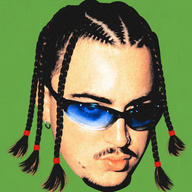
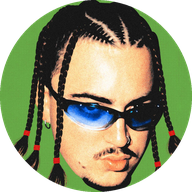
Icona de la pestanya rodona
Claude-Session: https://claude.ai/code/session_01CK917nBPVCJqKbkZFP6myE

diff --git a/index.html b/index.html
@@ -4,9 +4,9 @@
 <meta charset="utf-8">
 <meta name="viewport" content="width=device-width, initial-scale=1, viewport-fit=cover">
 <meta name="description" content="BOLTÓGRANDE presenta FLOR AL CUL, primer single. Ja disponible a totes les plataformes.">
-<link rel="icon" href="favicon.ico" sizes="48x48">
-<link rel="icon" type="image/png" sizes="32x32" href="assets/favicon-32.png">
-<link rel="icon" type="image/png" sizes="192x192" href="assets/icon-192.png">
+<link rel="icon" href="favicon.ico?v=2" sizes="48x48">
+<link rel="icon" type="image/png" sizes="32x32" href="assets/favicon-32.png?v=2">
+<link rel="icon" type="image/png" sizes="192x192" href="assets/icon-192.png?v=2">
 <link rel="apple-touch-icon" href="assets/apple-touch-icon.png">
 <meta property="og:type" content="website">
 <meta property="og:site_name" content="BOLTÓGRANDE">

diff --git a/contacte.html b/contacte.html
@@ -4,9 +4,9 @@
 <meta charset="utf-8">
 <meta name="viewport" content="width=device-width, initial-scale=1, viewport-fit=cover">
 <meta name="description" content="Contractacions i premsa de BOLTÓGRANDE.">
-<link rel="icon" href="favicon.ico" sizes="48x48">
-<link rel="icon" type="image/png" sizes="32x32" href="assets/favicon-32.png">
-<link rel="icon" type="image/png" sizes="192x192" href="assets/icon-192.png">
+<link rel="icon" href="favicon.ico?v=2" sizes="48x48">
+<link rel="icon" type="image/png" sizes="32x32" href="assets/favicon-32.png?v=2">
+<link rel="icon" type="image/png" sizes="192x192" href="assets/icon-192.png?v=2">
 <link rel="apple-touch-icon" href="assets/apple-touch-icon.png">
 <meta property="og:type" content="website">
 <meta property="og:site_name" content="BOLTÓGRANDE">
